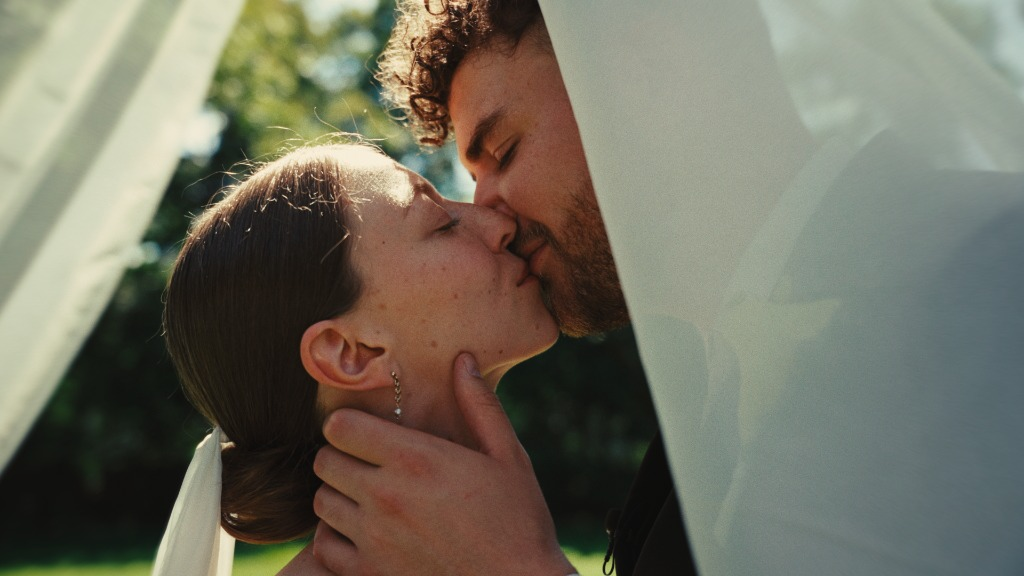
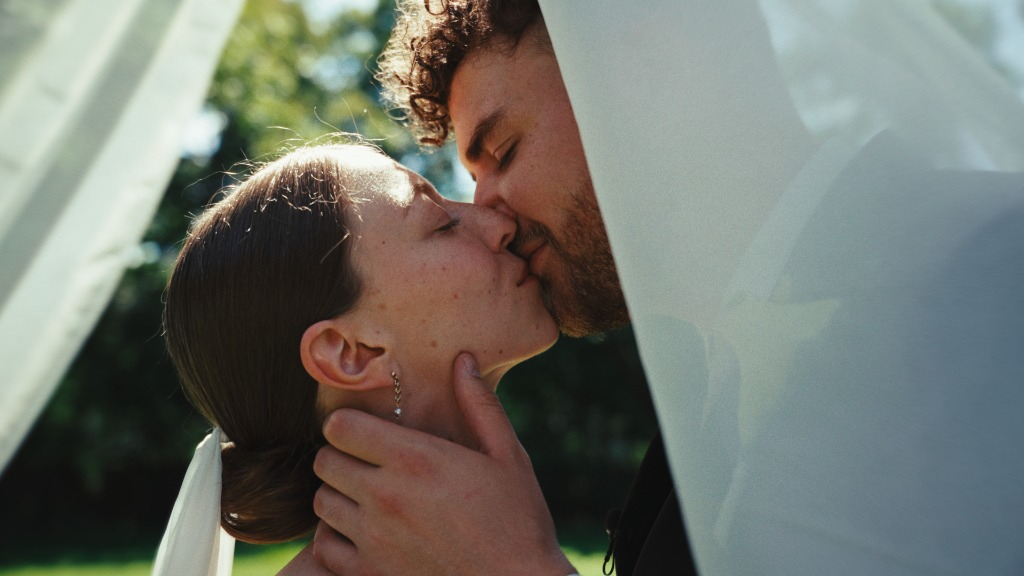
Update Rike & Jonathan film stills gallery to include all 4 cinematic photos in 4-column layout

diff --git a/components/pages/WeddingProject.tsx b/components/pages/WeddingProject.tsx
@@ -185,7 +185,7 @@ const WeddingProject: React.FC = () => {
               </div>
 
               {/* 35mm Filmstrip / Grid Display */}
-              <div className="grid grid-cols-1 md:grid-cols-3 gap-6 md:gap-8">
+              <div className="grid grid-cols-1 sm:grid-cols-2 lg:grid-cols-4 gap-6">
                 {project.stills.map((stillUrl, index) => (
                   <motion.div
                     key={index}

diff --git a/types.ts b/types.ts
@@ -64,7 +64,8 @@ export const WEDDING_PORTFOLIO_ITEMS: PortfolioItem[] = [
     stills: [
       '/images/rike_still_1.jpg',
       '/images/rike_still_2.jpg',
-      '/images/rike_still_3.jpg'
+      '/images/rike_still_3.jpg',
+      '/images/rike_still_4.jpg'
     ]
   },
   {
